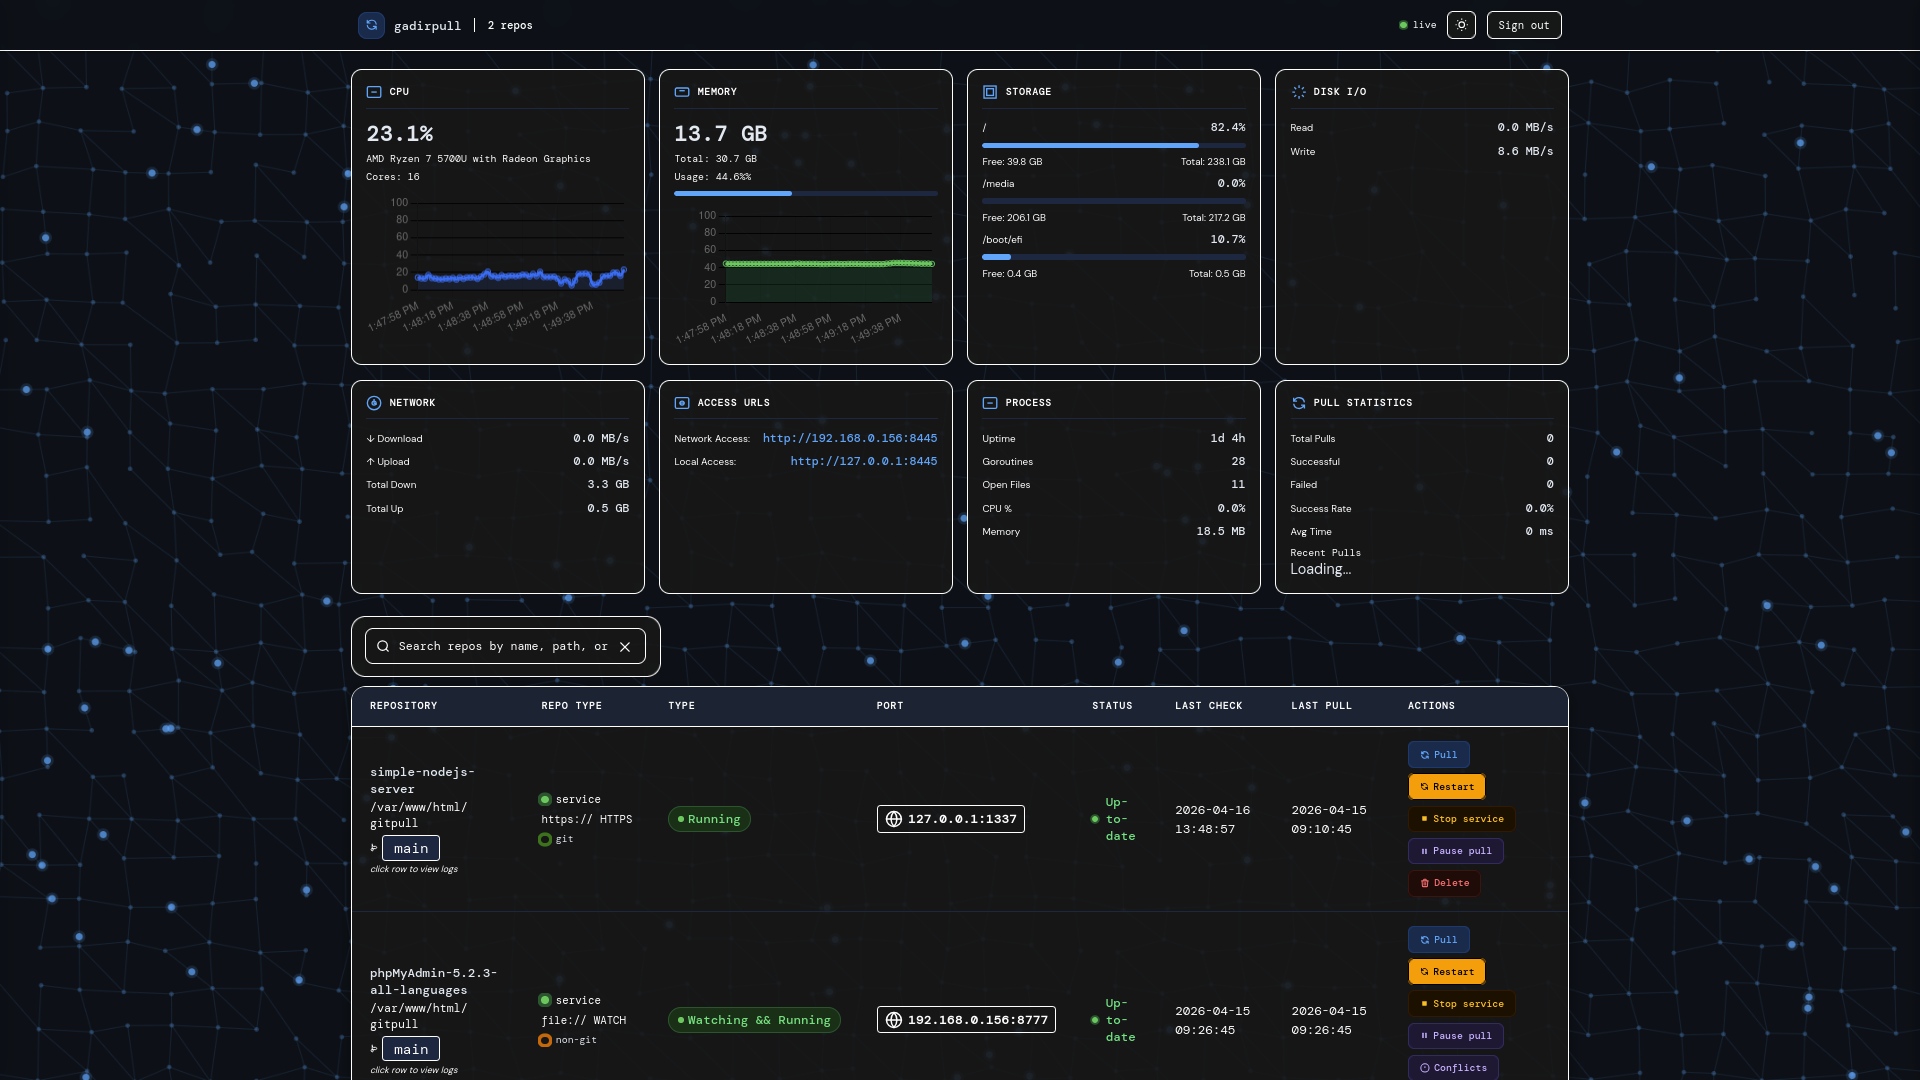
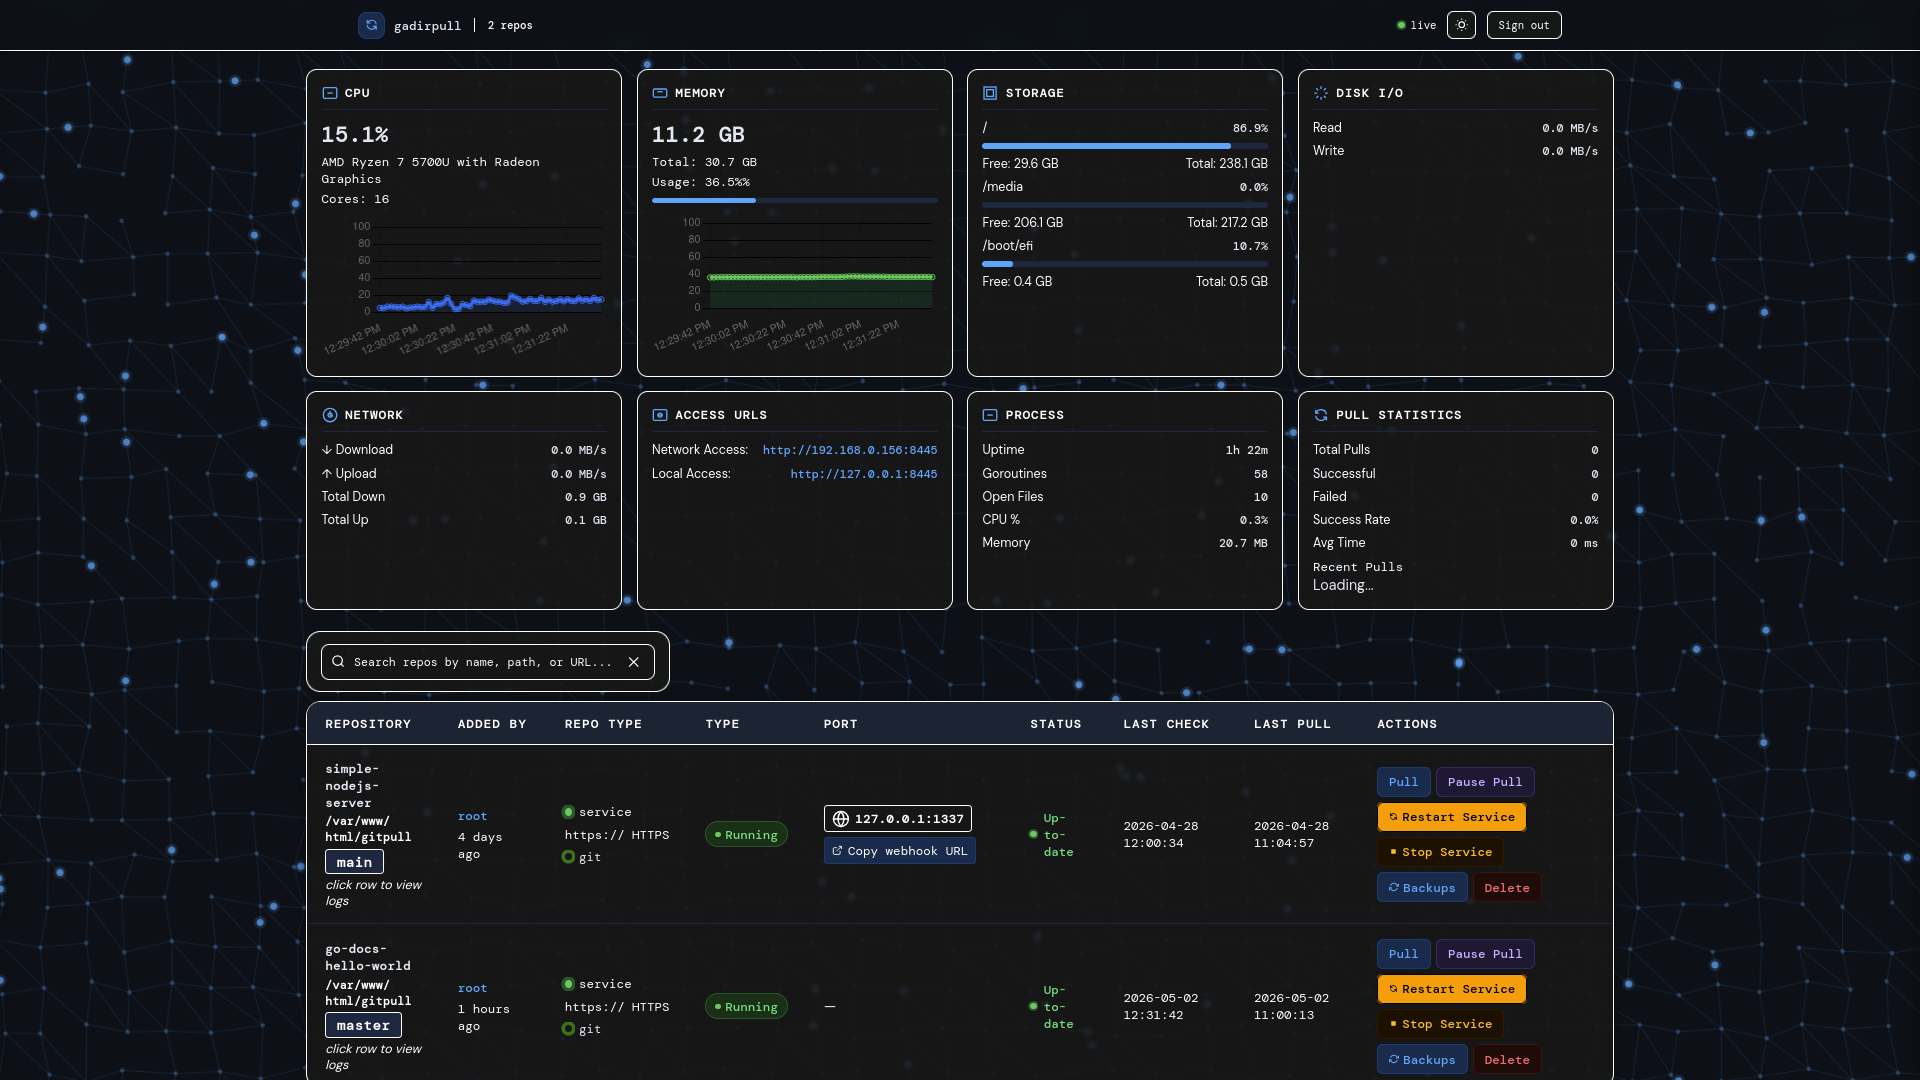
add -memlimit and cpulimit for service repo and sandboxing

diff --git a/README.md b/README.md
@@ -108,6 +108,10 @@ Gadirpull is a production-grade, versatile file synchronization and continuous d
 - Unique mount point generation
 - FTP fallback to local copy if curlftpfs unavailable
 
+### Hardware limiting(memory,cpu)
+
+- limit cpu and memory usage in service or restricted scope using -memlimit, -cpulimit
+
 ### Command Line Interface
 
  Command  Description 
@@ -128,6 +132,8 @@ Gadirpull is a production-grade, versatile file synchronization and continuous d
  **`-allowedcmd <cmds>`  Comma-separated command whitelist** 
 **`-disallowedcmd <cmds>`  Comma-separated command blacklist** 
   **`-noexecpath` Comma-separated directories to block executions in directories (e.g., 'public,uploads,doc'). Only applied when -allowedcmd or -disallowedcmd is set**
+  **`-memlimit <limit>     Memory limit for service (e.g., '512M', '1G', '2G'). Used with -s,-disallowedcmd,-allowedcmd flag**
+ **`-cpulimit <percent>   CPU quota percentage (e.g., -cpulimit 1, -cpulimit 1.5 cpu limit 2, the float value represent your limit to apllication from total cpu logical cores). Used with -s,-disallowedcmd,allowedcmd flag**
  **`-envencrypt <files>`  Encrypt files with systemd-creds**
  **`-envunencrypt`  Remove encrypted credentials**
  **`-createfile text\file`  Create file in repository** 
@@ -256,43 +262,43 @@ gardirpull -r [email redacted]:user/repo.git -auth ssh -sshkey /etc/ssh/repo-key -
 ##	Service Management
 
 # Add repository with systemd service (auto-start on boot, auto-restart on failure)
-gardirpull -r https://github.com/user/node-app.git -s -cmd "node server.js"
+gardirpull -r https://github.com/user/node-app.git -s -startcmd "node server.js"
 
 # Add with service and custom interval
-gardirpull -r https://github.com/user/python-app.git -s -cmd "python app.py" -c 30
+gardirpull -r https://github.com/user/python-app.git -s -startcmd "python app.py" -c 30
 
 # Add Go service with build step
-gardirpull -r https://github.com/user/golang-api.git -s -cmd "./api-server" -precmd "go build -o api-server"
+gardirpull -r https://github.com/user/golang-api.git -s -startcmd "./api-server" -buildcmd "go build -o api-server"
 
 # Add Docker service
-gardirpull -r https://github.com/user/docker-app.git -s -cmd "docker-compose up -d"
+gardirpull -r https://github.com/user/docker-app.git -s -startcmd "docker-compose up -d"
 
 # Add systemd service for a specific branch
-gardirpull -r https://github.com/user/app.git -b production -s -cmd "/usr/bin/myapp --prod"
+gardirpull -r https://github.com/user/app.git -b production -s -startcmd "/usr/bin/myapp --prod"
 
 # Update existing repo to add service
-gardirpull -r https://github.com/user/app.git -s -cmd "node server.js"
+gardirpull -r https://github.com/user/app.git -s -startcmd "node server.js"
 
 
 ##	File Creation
 
 # Run build command after pull
-gardirpull -r https://github.com/user/app.git -precmd "make build"
+gardirpull -r https://github.com/user/app.git -buildcmd "make build"
 
 # Run multiple commands
-gardirpull -r https://github.com/user/app.git -precmd "npm install && npm run build"
+gardirpull -r https://github.com/user/app.git -buildcmd "npm install && npm run build"
 
 # Run with service restart
-gardirpull -r https://github.com/user/app.git -precmd "systemctl restart myapp"
+gardirpull -r https://github.com/user/app.git -buildcmd "systemctl restart myapp"
 
 # Run database migrations after pull
-gardirpull -r https://github.com/user/app.git -precmd "python manage.py migrate"
+gardirpull -r https://github.com/user/app.git -buildcmd "python manage.py migrate"
 
 # Run tests after update (optional, can fail without stopping)
-gardirpull -r https://github.com/user/app.git -precmd "go test ./... || true"
+gardirpull -r https://github.com/user/app.git -buildcmd "go test ./... || true"
 
-# Combine pre-cmd with service management
-gardirpull -r https://github.com/user/webapp.git -s -cmd "gunicorn app:app" -precmd "pip install -r requirements.txt"
+# Combine pre-startcmd with service management
+gardirpull -r https://github.com/user/webapp.git -s -startcmd "gunicorn app:app" -buildcmd "pip install -r requirements.txt"
 
 
 ##	Repository Management
@@ -305,6 +311,9 @@ gardirpull -r https://github.com/user/repo.git -delete
 gardirpull -list # List all respository
 
 gardirpull -find https://github.com/user/repo.git #find a respository
+
+
+# Network share  and file
 
 # Network share with full deployment pipeline for Git Directories
 gadirpull -r smb://buildserver/releases -b main -buildcmd "npm ci && npm run build" -s -startcmd "node dist/server.js" -allowedcmd "node,npm,pm2"
@@ -338,9 +347,6 @@ gadirpull -r file:///home/user/myapp -buildcmd "npm install" -s -startcmd "npm s
 # With allowed commands restriction
 gadirpull -r file:///opt/app -s -startcmd "php artisan serve" -allowedcmd "php,node,npm"
 
-# With noexecpath restriction prevents directories from being executable this is good to prevent shell execution in  upload, public , document directories 
-gadirpull -r https://github.com/user/app.git -s -startcmd "node server.js" -allowedcmd "node,npm" -noexecpath "public,uploads,tmp,storage"
-
 # Block network tools and dangerous commands
 gadirpull -r https://github.com/user/app.git -s -startcmd "npm start" -disallowedcmd "curl,wget,nc,ssh,rm,chmod"
 
@@ -369,6 +375,8 @@ gadirpull -r https://github.com/user/app.git -allowedcmd "node,npm" -disallowedc
 # Web applications (block network tools)
 -disallowedcmd "curl,wget,nc,telnet,ssh,scp,sftp"
 
+
+#Security
 # Database services (block shell access)
 -disallowedcmd "bash,sh,dash,zsh,su,sudo"
 
@@ -377,6 +385,9 @@ gadirpull -r https://github.com/user/app.git -allowedcmd "node,npm" -disallowedc
 
 # Development servers (block package managers to prevent tampering)
 -disallowedcmd "apt,apt-get,dnf,yum,pacman,dpkg,rpm"
+
+# With noexecpath restriction prevents directories from being executable this is good to prevent shell execution in  upload, public , document directories 
+gadirpull -r https://github.com/user/app.git -s -startcmd "node server.js" -allowedcmd "node,npm" -noexecpath "public,uploads,tmp,storage"
 
 # Microservices (block process manipulation)
 -disallowedcmd "kill,pkill,killall,nohup,screen,tmux"
@@ -488,8 +499,8 @@ sudo systemctl stop gardirpull-daemon
 
 ## Security-Command restriction##
    
-sudo gardirpull -r https://github.com/company/auth.git -s -cmd "node server" -precmd "npm install && mkdir foldername" -allowedcmd "node,npm,mkdir" ## this only expose the service to the allowed commands
-sudo gardirpull -r https://github.com/company/auth.git -s -cmd "node server" -precmd "npm install && mkdir foldername" -envencrypt "myfile.env,myfile.txt,myfile1.cert" ## encrypt files and only decrypt during runtome and send to memory then make it available via memory path to the os.env($CREDENTIALS_DIRECTORY/yourfilename). This approach combines hardware locking, file system isolation, and memory protection
+sudo gardirpull -r https://github.com/company/auth.git -s -startcmd "node server" -buildcmd "npm install && mkdir foldername" -allowedcmd "node,npm,mkdir" ## this only expose the service to the allowed commands
+sudo gardirpull -r https://github.com/company/auth.git -s -startcmd "node server" -buildcmd "npm install && mkdir foldername" -envencrypt "myfile.env,myfile.txt,myfile1.cert" ## encrypt files and only decrypt during runtome and send to memory then make it available via memory path to the os.env($CREDENTIALS_DIRECTORY/yourfilename). This approach combines hardware locking, file system isolation, and memory protection
 
     # DON'T allow dangerous wildcards
 -allowedcmd "*"                    # Defeats the purpose
@@ -503,24 +514,24 @@ sudo gardirpull -r https://github.com/company/auth.git -s -cmd "node server" -pr
 ##	Docker Microservices Stack
 
 # Service 1: API Gateway
-cd /opt/services && gardirpull -r https://github.com/company/gateway.git -s -cmd "docker-compose up -d gateway"
+cd /opt/services && gardirpull -r https://github.com/company/gateway.git -s -startcmd "docker-compose up -d gateway"
 
 # Service 2: Auth Service  
-gardirpull -r https://github.com/company/auth.git -s -cmd "docker-compose up -d auth"
+gardirpull -r https://github.com/company/auth.git -s -startcmd "docker-compose up -d auth"
 
 # Service 3: Worker Service
-gardirpull -r https://github.com/company/worker.git -s -cmd "docker-compose up -d worker"
+gardirpull -r https://github.com/company/worker.git -s -startcmd "docker-compose up -d worker"
 
 # Pull static site and reload nginx
-cd /var/www/html && gardirpull -r https://github.com/company/website.git -b main -precmd "chown -R www-data:www-data . && systemctl reload nginx"
+cd /var/www/html && gardirpull -r https://github.com/company/website.git -b main -buildcmd "chown -R www-data:www-data . && systemctl reload nginx"
 
 #	Auto-Deploy Node.js Application
 # Add repository with auto-restart
 
-cd /var/www && gardirpull -r https://github.com/company/webapp.git -b production -s -cmd "node server.js" -precmd "npm install && npm run build" -createfile text -filename .env -text "NODE_ENV=production\nPORT=4000"
+cd /var/www && gardirpull -r https://github.com/company/webapp.git -b production -s -startcmd "node server.js" -buildcmd "npm install && npm run build" -createfile text -filename .env -text "NODE_ENV=production\nPORT=4000"
   
 #CI/CD Pipeline Integration
 
 # Build and test on pull
-gardirpull -r https://github.com/company/app.git -precmd "make test && make build && systemctl restart app" -createfile text -filename .version -text "v1.0.0"
+gardirpull -r https://github.com/company/app.git -buildcmd "make test && make build && systemctl restart app" -createfile text -filename .version -text "v1.0.0"
 ```